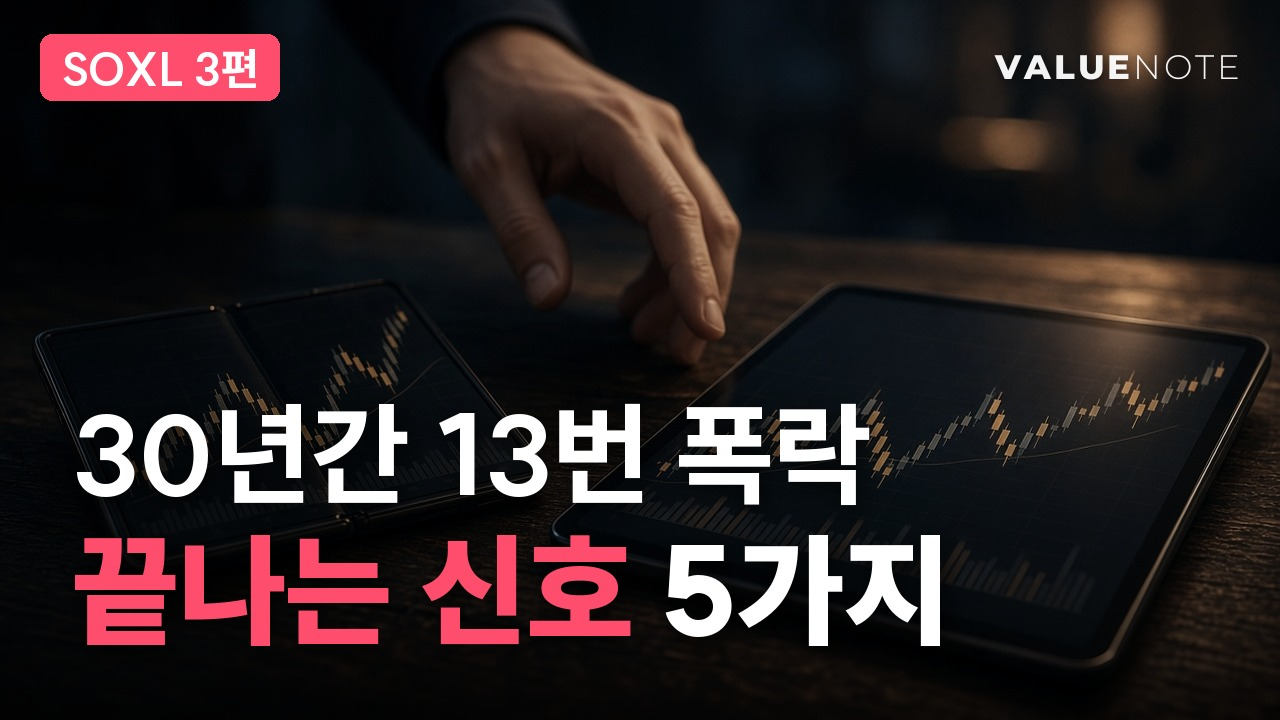
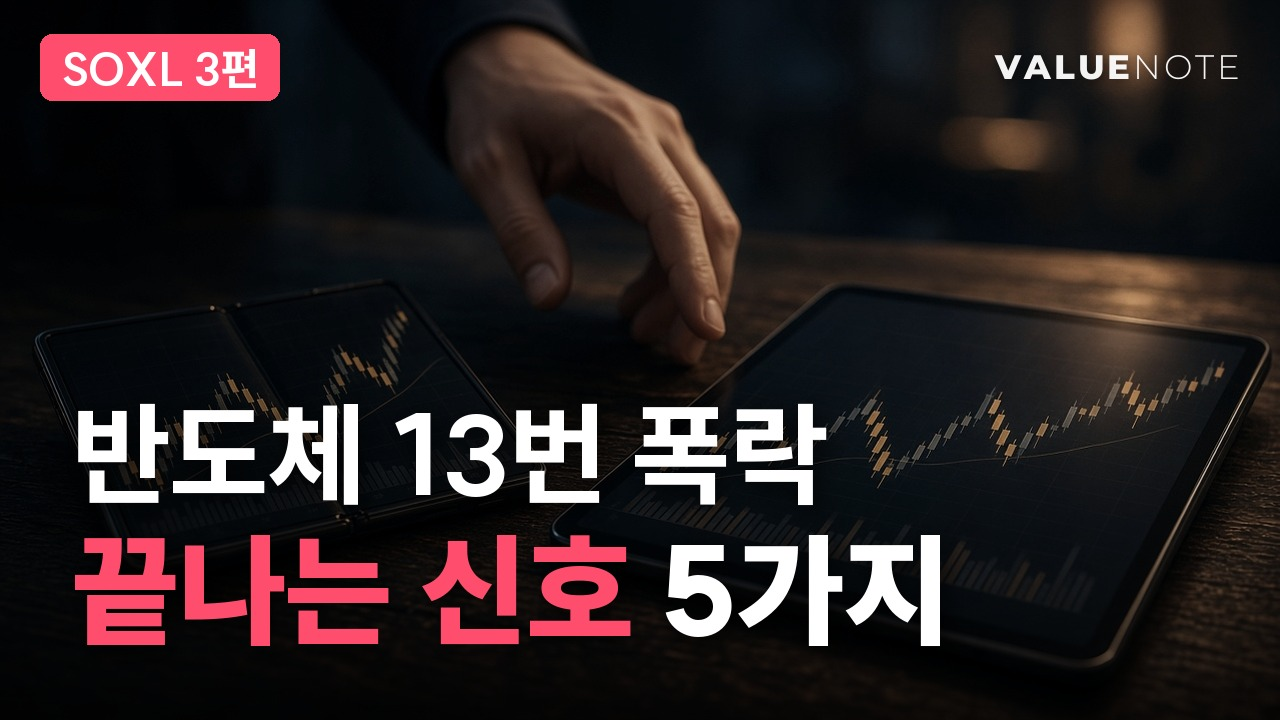
롱폼 L261123-soxl-3 썸네일 C 윗줄 '반도체 13번 폭락' — 세 안 모두 반도체·SOXL 포함 (대표 11/22 20:59)
Claude-Session: https://claude.ai/code/session_01KaYReLT3Q8BHsPVoLFDxpG

Changed region(s): [[0.0625, 0.55, 0.6875, 0.7028]]

diff --git a/scripts/youtube/long/drafts/L261123-soxl-3_make_spec.py b/scripts/youtube/long/drafts/L261123-soxl-3_make_spec.py
@@ -313,7 +313,7 @@ spec.update({
  "ab_sets": [
   {"key": "a", "default": True, "title": "SOXL·반도체 급락, 끝나는 신호 5가지 | 30년간 13번 폭락에서 매번 반복됐다", "file": "thumb_a.jpg", "type": "A 반도체 급락 / 끝나는 신호 5가지"},
   {"key": "b", "title": "SOXL·반도체 급락, 끝나는 신호 5가지 | 30년간 13번 폭락에서 매번 반복됐다", "file": "thumb_b.jpg", "type": "B SOXL -90% / 끝나는 신호 5가지"},
-  {"key": "c", "title": "SOXL·반도체 급락, 끝나는 신호 5가지 | 30년간 13번 폭락에서 매번 반복됐다", "file": "thumb_c.jpg", "type": "C 30년간 13번 폭락 / 끝나는 신호 5가지"}],
+  {"key": "c", "title": "SOXL·반도체 급락, 끝나는 신호 5가지 | 30년간 13번 폭락에서 매번 반복됐다", "file": "thumb_c.jpg", "type": "C 반도체 13번 폭락 / 끝나는 신호 5가지"}],
  "scenes": sc,
 })
 json.dump(spec, open(OUT, 'w'), ensure_ascii=False, indent=1)

diff --git a/scripts/youtube/long/drafts/L261123-soxl-3_thumbs.py b/scripts/youtube/long/drafts/L261123-soxl-3_thumbs.py
@@ -14,7 +14,7 @@ TW, TH = 1280, 720; PINK = vn2.PINK; WHITE = (255, 255, 255, 255)
 SETS = [   # 20:53 대표: 제목 각도 '반도체 급락, 끝나는 신호 5가지'로 — 아랫줄은 세 안 공통, 윗줄만 바꿔 A/B 테스트
     dict(file="thumb_a.jpg", photo="il_L261105g_cin_panic.jpeg", fx=.62, l1="반도체 급락", l2=("끝나는 신호", " 5가지")),
     dict(file="thumb_b.jpg", photo="il_L261107s_chip_stairs.jpeg", fx=.75, l1="SOXL -90%", l2=("끝나는 신호", " 5가지")),
-    dict(file="thumb_c.jpg", photo="il_L261113a_phone_vs_chart.jpeg", fx=.55, l1="30년간 13번 폭락", l2=("끝나는 신호", " 5가지")),
+    dict(file="thumb_c.jpg", photo="il_L261113a_phone_vs_chart.jpeg", fx=.55, l1="반도체 13번 폭락", l2=("끝나는 신호", " 5가지")),
 ]
 
 
